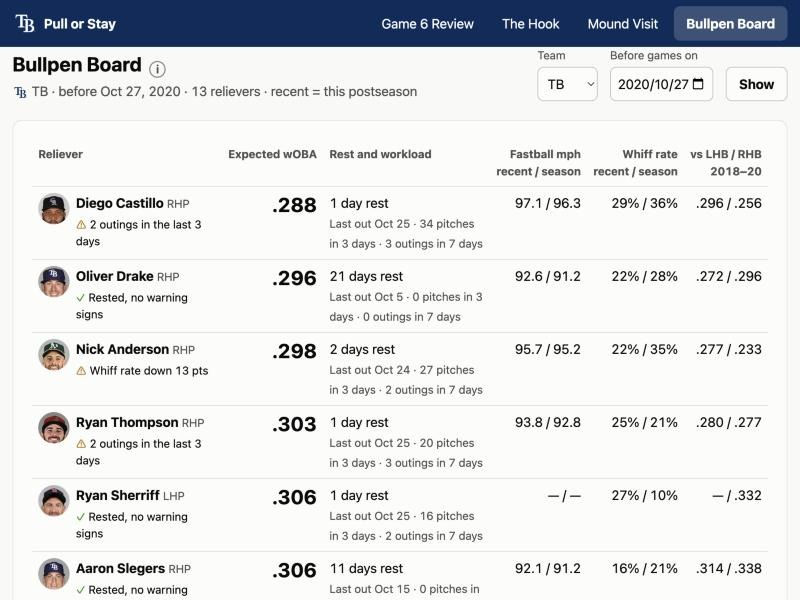
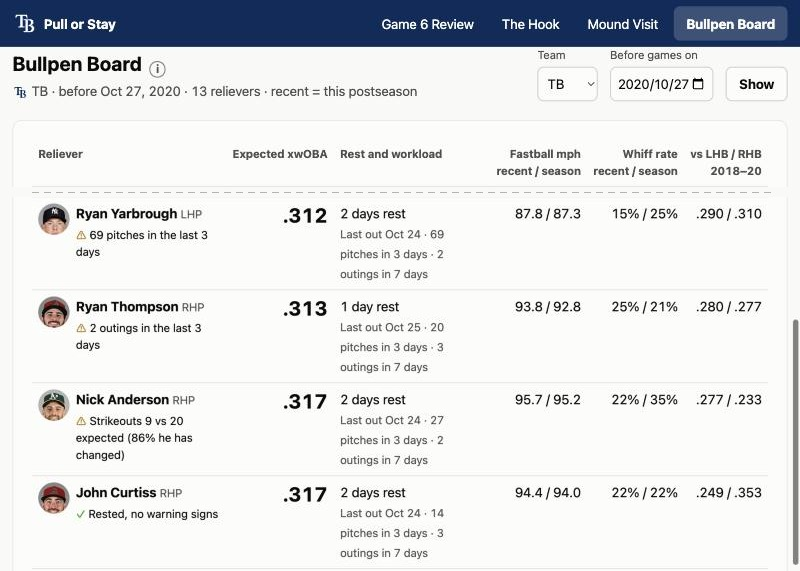
Update README screenshots for model v2

diff --git a/README.md b/README.md
@@ -28,6 +28,11 @@ Each page puts its key numbers first. Explanations sit behind ⓘ tips so coache
 | **Mound Visit** | pitching coach | Today's starter vs. his season (velocity, spin, whiff rate, strikeouts, xwOBA) and how starts like this go the third time through |
 | **Bullpen Board** | bullpen coach | Every recent reliever, sorted by projected xwOBA, with rest, workload, velocity drops and a strikeout warning when he may have changed |
 
+<p>
+  <img src="docs/the-hook.jpg" alt="The Hook for Game 6: +1.9 if Anderson is unchanged, −1.9 if he has changed, −1.3 expected; 9 strikeouts vs 19.7 expected" width="49%">
+  <img src="docs/bullpen-board.jpg" alt="Bullpen Board before Game 6, with Anderson flagged: strikeouts 9 vs 20 expected, 86% he has changed" width="49%">
+</p>
+
 ## What the data says about Game 6
 
 - **Snell's stuff was real.** His four-seam fastball averaged 96.3 mph (95.0 in the 2020 regular season) and hitters missed on
